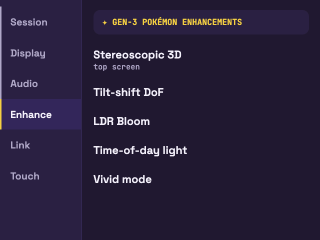
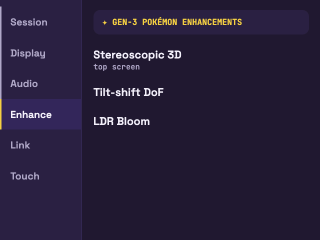
art(enhance): erase the orphaned Time-of-day and Vivid labels from all 6 pause-bot-enhance plates
Reproducible via tools/plate_erase_rows.py (flat-fill rect 88,140..311,195; asserts the band is
clean afterwards). examples/indigo is a composed reference screenshot and is left untouched.

Changed region(s): [[0.2812, 0.6125, 0.5938, 0.6708], [0.2812, 0.7292, 0.5, 0.7875]]

diff --git a/tools/plate_erase_rows.py b/tools/plate_erase_rows.py
@@ -1,0 +1,44 @@
+#!/usr/bin/env python3
+"""plate_erase_rows.py -- erase the orphaned "Time-of-day light" / "Vivid mode" labels from the
+pause-bot-enhance plate of every theme (those rows were deleted from code 2026-10-06).
+
+Measured on all 6 themes (identical geometry): the content panel is a perfectly flat fill
+(one RGBA value; sampled at (200,215)), and the only non-background ink in y130..225,
+x88..311 is "Time-of-day light" (ink y146..156) and "Vivid mode" (ink y175..183). So the
+erase is a solid fill of RECT with that theme's own panel colour, which is exact (no
+gradient, no noise). The script asserts that before and after and is idempotent.
+
+RECT = (x0, y0, x1, y1) inclusive, in plate pixels (320x240).
+Run from the project root:  python3 tools/plate_erase_rows.py   (then tools/build_assets.sh)
+The composed example (examples/indigo/) is a reference screenshot, not a shipped plate: untouched.
+"""
+import os, sys
+from PIL import Image
+
+ROOT = os.path.join(os.path.dirname(os.path.abspath(__file__)), "..")
+PLATES = os.path.join(ROOT, "design_handoff_3dgba_ui/assets_3ds/plates")
+THEMES = ["indigo", "oled", "daylight", "duo", "retro", "custom"]
+RECT = (88, 140, 311, 195)       # covers ink 146..156 and 175..183 with margin; stays clear of the
+                                 # Bloom label (ends 125) and the chrome band (y>=226)
+BG_PROBE = (200, 215)            # empty panel pixel
+SCAN = (88, 130, 311, 225)       # region that must be flat bg after the erase
+
+def main():
+    for t in THEMES:
+        p = os.path.join(PLATES, t, "pause-bot-enhance.png")
+        im = Image.open(p).convert("RGBA"); px = im.load()
+        bg = px[BG_PROBE]
+        x0, y0, x1, y1 = RECT
+        for y in range(y0, y1 + 1):
+            for x in range(x0, x1 + 1):
+                px[x, y] = bg
+        sx0, sy0, sx1, sy1 = SCAN
+        bad = [(x, y) for y in range(sy0, sy1 + 1) for x in range(sx0, sx1 + 1) if px[x, y] != bg]
+        # Bloom label lives at y117..125 inside SCAN; allow only that.
+        bad = [(x, y) for (x, y) in bad if not (117 <= y <= 125)]
+        assert not bad, (t, bad[:5])
+        im.save(p, optimize=True)
+        print("%-9s bg=%s erased %s clean" % (t, bg, RECT))
+
+if __name__ == "__main__":
+    sys.exit(main())
